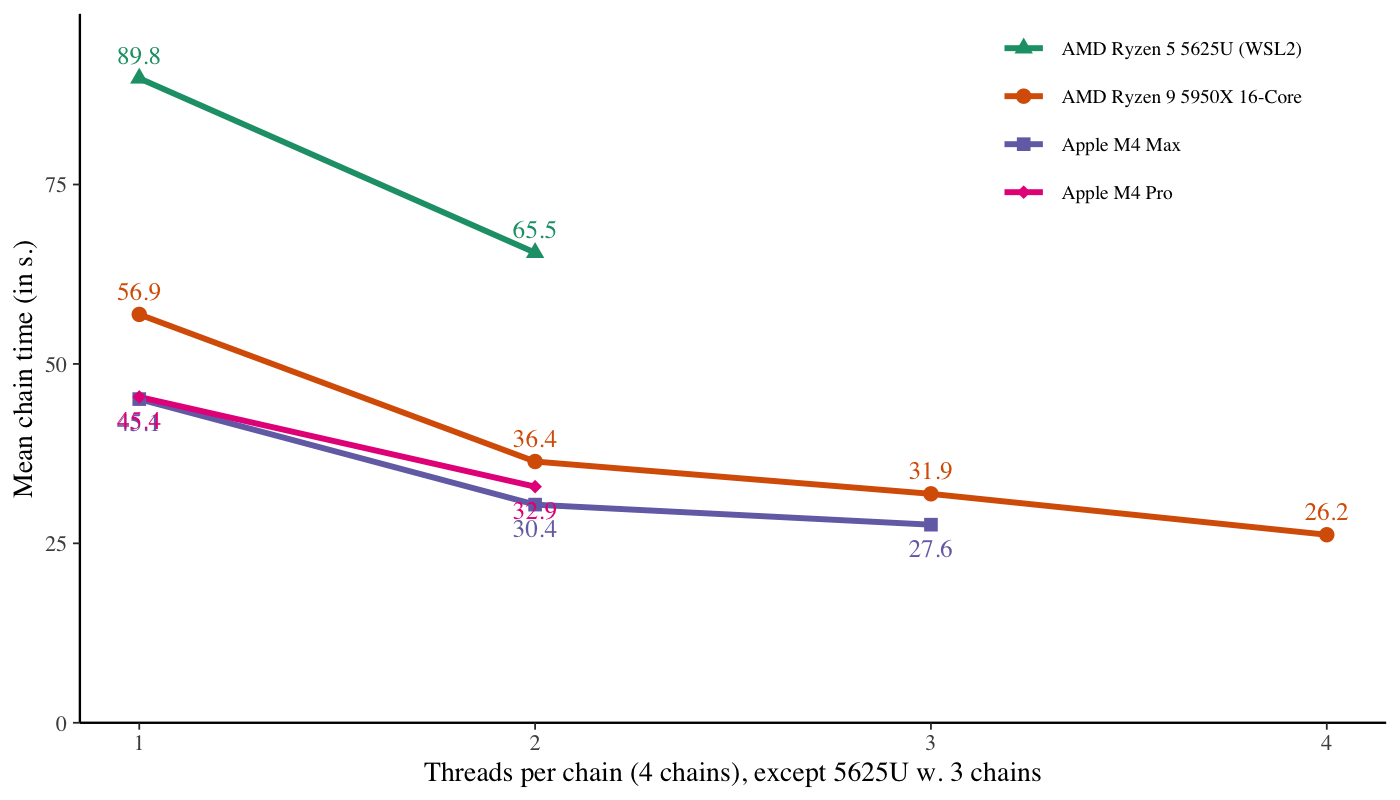
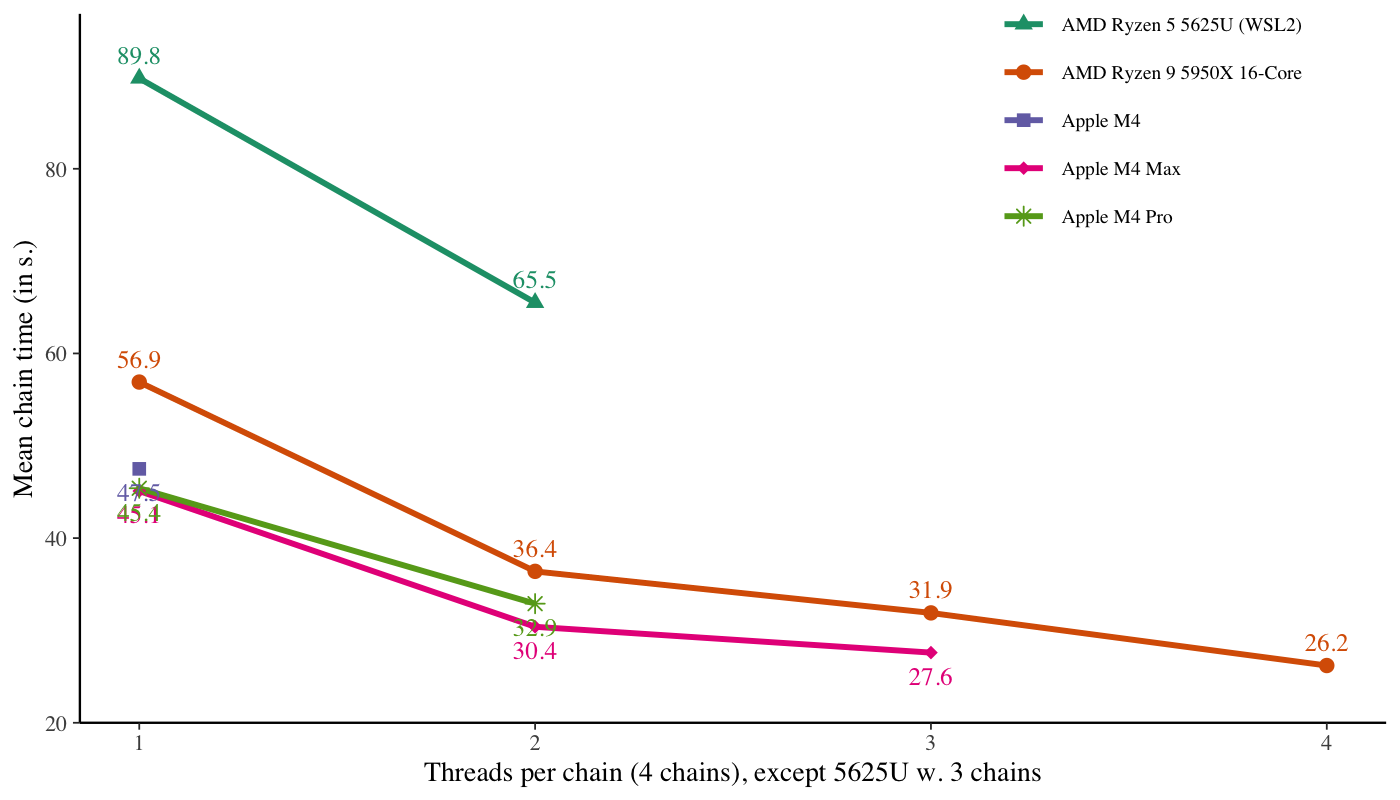
M4 data update

diff --git a/README.md b/README.md
@@ -111,10 +111,16 @@ Mean chain time (`mean_chain`) in seconds, with the lowest timed runs
 shown (which is the cached run). In parentheses is the speed-up relative
 to `threads = 1`, i.e., 3 or 4 cores full with one chain.
 
+    #> Warning: One or more parsing issues, call `problems()` on your data frame for details,
+    #> e.g.:
+    #>   dat <- vroom(...)
+    #>   problems(dat)
+
 | machine | 1 thread | 2 threads | 3 threads | 4 threads |
 |:---|---:|---:|---:|---:|
 | AMD Ryzen 5 5625U (WSL2) | 89.8 s | 65.5 s (1.37×) |  |  |
 | AMD Ryzen 9 5950X 16-Core | 56.9 s | 36.4 s (1.56×) | 31.9 s (1.78×) | 26.2 s (2.17×) |
+| Apple M4 | 47.5 s |  |  |  |
 | Apple M4 Pro | 45.4 s | 32.9 s (1.38×) |  |  |
 | Apple M4 Max | 45.1 s | 30.4 s (1.48×) | 27.6 s (1.63×) |  |
 
